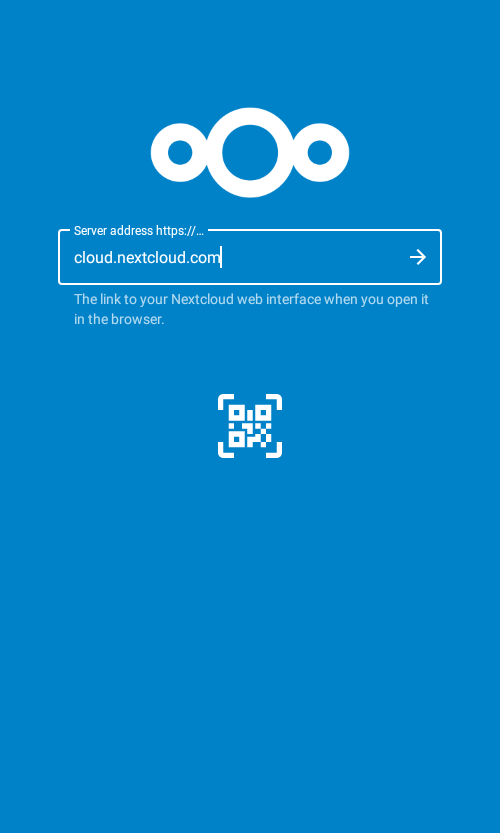
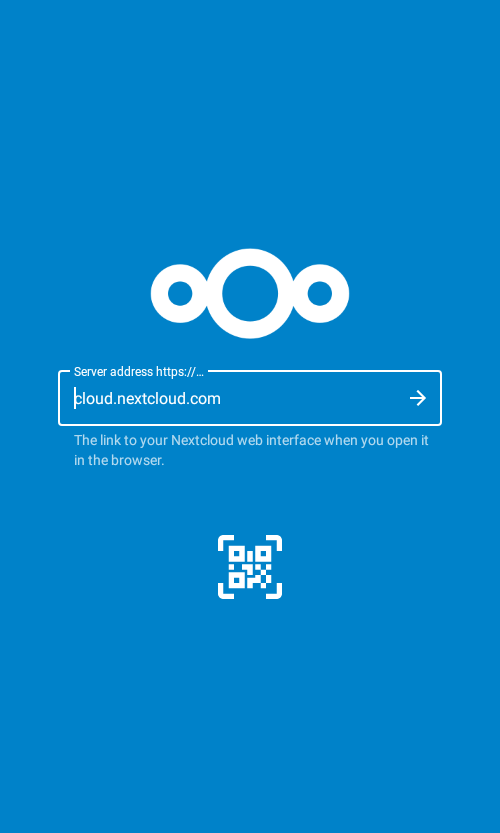
Make AuthenticatorActivityIT screenshot more reliable
typeText was resulting in the wrong text sometimes

diff --git a/src/androidTest/java/com/nextcloud/client/AuthenticatorActivityIT.java b/src/androidTest/java/com/nextcloud/client/AuthenticatorActivityIT.java
@@ -20,6 +20,9 @@
 
 package com.nextcloud.client;
 
+import android.Manifest;
+import android.widget.TextView;
+
 import com.owncloud.android.AbstractIT;
 import com.owncloud.android.R;
 import com.owncloud.android.authentication.AuthenticatorActivity;
@@ -49,7 +52,7 @@ public class AuthenticatorActivityIT extends AbstractIT {
     @ScreenshotTest
     public void login() {
         AuthenticatorActivity sut = activityRule.launchActivity(null);
-        onView(withId(R.id.host_url_input)).perform(typeText(URL));
+        ((TextView) sut.findViewById(R.id.host_url_input)).setText(URL);
         sut.runOnUiThread(() -> sut.getAccountSetupBinding().hostUrlInput.clearFocus());
         screenshot(sut);
     }
